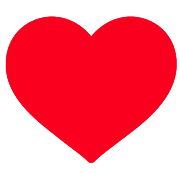
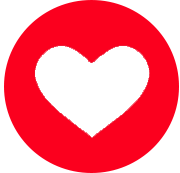
New like/love button

diff --git a/src/app/main/components/publication/publication.html b/src/app/main/components/publication/publication.html
@@ -352,11 +352,11 @@
             <div class="hint-social">
               {{ 'publication_like' | translate }}
             </div>
-            <img class="social-emoji social-emoji-like-active"  style="margin-bottom:2px"
-                 src="assets/images/new/like1-active.png"
+            <img class="social-emoji social-emoji-like"  
+                 src="assets/images/new/publication/like1-full.png"
                  *ngIf="publicationBean.isLiked">
-            <img class="social-emoji desaturated social-emoji-like" style="margin-bottom:2px"
-                 src="assets/images/new/like1-outline.png"
+            <img class="social-emoji desaturated social-emoji-like" 
+                 src="assets/images/new/publication/like1-outline.png"
                  *ngIf="!publicationBean.isLiked"></button>
         </div>
 
@@ -365,10 +365,10 @@
             <div class="hint-social">
                {{ 'publication_perfect' | translate }}
             </div>
-            <img class="social-emoji" src="assets/images/new/heart-active.png"
+            <img class="social-emoji" src="assets/images/new/heart-active.png" style="margin-bottom:1px;width:28px"
                  *ngIf="publicationBean.isDisliked">
             <img class="social-emoji"
-                 src="assets/images/new/heart.png"
+                 src="assets/images/new/heart.png" style="margin-bottom:1px;width:28px"
                  *ngIf="!publicationBean.isDisliked">
           </button>
         </div>

diff --git a/src/assets/css/style.css b/src/assets/css/style.css
@@ -2698,7 +2698,7 @@ facebook-friends .user .user-img {
   transform: rotate(15deg) scale(1.2);
 }*/
 .dislike {
-  margin-left: 17px;
+  margin-left: 9px;
 }
 
 .social-button {
@@ -6060,11 +6060,7 @@ img[src="undefined"] {
 }
 
 .social-emoji-like {
-  background-color: #666;
-}
-
-.social-emoji-like-active {
-  background-color: #fff;
+  width:30px;
 }
 
 /* 100% Image Width on Smaller Screens */
